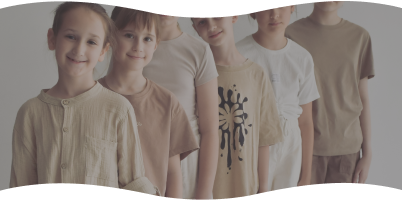
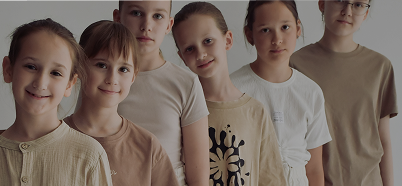
Redesigned landing page

diff --git a/empathy-web/src/routes/+page.svelte b/empathy-web/src/routes/+page.svelte
@@ -3,11 +3,14 @@
 </script>
 
 <style>
+    div{
+        height: 100%;
+    }
 </style>
 
 <div class="flex flex-col w-full">
-    <HeroImage title="APIE MUS" imageUrl="./home/about.png" href="./about" animationDelay={100} grow={0}/>
-    <HeroImage title="TVARKARAŠTIS" imageUrl="./home/schedule.png" href="./schedule" animationDelay={200} grow={0}/>
-    <HeroImage title="KAINOS" imageUrl="./home/prices.png" href="./prices" animationDelay={300} grow={0}/>
-    <HeroImage title="KONTAKTAI" imageUrl="./home/services.png" href="./contacts" animationDelay={400} grow={0}/>
+    <HeroImage title="APIE MUS" imageUrl="./home/about.png" href="./about" animationDelay={100} grow={1}/>
+    <HeroImage title="TVARKARAŠTIS" imageUrl="./home/schedule.png" href="./schedule" animationDelay={200} grow={1}/>
+    <HeroImage title="KAINOS" imageUrl="./home/prices.png" href="./prices" animationDelay={300} grow={1}/>
+    <HeroImage title="KONTAKTAI" imageUrl="./home/services.png" href="./contacts" animationDelay={400} grow={1}/>
 </div>

diff --git a/empathy-web/src/atomic/molecules/HeroImage.svelte b/empathy-web/src/atomic/molecules/HeroImage.svelte
@@ -53,7 +53,7 @@
 
     div {
         position: relative;
-        aspect-ratio: 402/204;
+        aspect-ratio: 402/186;
 
         background-position: center;
         background-repeat: no-repeat;
@@ -66,7 +66,7 @@
     }
 
     div:not(:first-of-type){
-        margin-top: -3vh;
+        margin-top: -0.2lvh;
     }
 
     div.side-text{
@@ -125,10 +125,10 @@
         class:side-text={sideText}>
     {#if href}
         <a href="{href}" aria-label="{title}">
-            <Label font="arsenal" color="white" size={42}>{title}</Label>
+            <Label font="arsenal" color="sand" size={42}>{title}</Label>
         </a>
     {:else}
-        <Label font="arsenal" color="white" size={42}>{title}</Label>
+        <Label font="arsenal" color="sand" size={42}>{title}</Label>
     {/if}
 
     {#if sideText}

diff --git a/empathy-web/src/atomic/atoms/Text/common.ts b/empathy-web/src/atomic/atoms/Text/common.ts
@@ -2,7 +2,7 @@
 
 export type Font = 'arsenal' | 'cormorant';
 export type Weight = 'normal' | 'bold';
-export type Color = 'black' | 'white' | 'gray';
+export type Color = 'black' | 'white' | 'gray' | 'sand';
 export type Alignment = 'left' | 'right' | 'center' | 'justify';
 
 export interface TextProps {
@@ -41,7 +41,8 @@ export function parseRenderParameters(props: TextProps): RenderParameters {
 const colors: Record<Color, string> = {
     'white': '#FFFFFF',
     'gray': '#5F5B5B',
-    'black': '#5D4B3D'
+    'black': '#5D4B3D',
+    'sand': '#E5DACF'
 }
 
 const fonts: Record<Font, string> = {

diff --git a/empathy-web/src/atomic/organisms/Navbar.svelte b/empathy-web/src/atomic/organisms/Navbar.svelte
@@ -21,6 +21,11 @@
         aspect-ratio: 402/110;
         height: auto;
         width: 100%;
+
+        display: flex;
+        align-items: center;
+        justify-content: center;
+
         background-image: url("/wave-header.svg");
         background-position: center;
         background-repeat: no-repeat;
@@ -29,7 +34,7 @@
 </style>
 
 <nav>
-    <div id="header" class="w-full h-auto flex flex-col items-center pt-3">
+    <div id="header" class="w-full h-auto flex flex-col items-center">
         <Logo></Logo>
         <Sandwich bind:isOpen></Sandwich>
     </div>

diff --git a/empathy-web/src/routes/+layout.svelte b/empathy-web/src/routes/+layout.svelte
@@ -32,14 +32,14 @@
     }
 
     main {
-        height: auto;
-        margin-top: 10dvh;
+        height: 87lvh;
+        margin-top: 10lvh;
         margin-bottom: -3dvh;
     }
 
     main.no-scroll {
-        height: 90dvh;
-        margin-bottom: 3dvh;
+        height: 87lvh;
+        margin-bottom: 3lvh;
         overflow-y: hidden;
     }
 </style>

diff --git a/empathy-web/src/atomic/atoms/Logo.svelte b/empathy-web/src/atomic/atoms/Logo.svelte
@@ -1,7 +1,7 @@
 <style>
     a.logo {
-        height: 80px;
-        width: 210px;
+        height: 45px;
+        width: 154px;
         background-image: url("/logo.svg");
         background-position: center;
         background-repeat: no-repeat;
